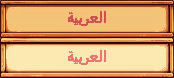
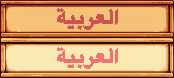
Improve complex-script language button legibility

Changed region(s): [[0.3161, 0.6154, 0.6897, 0.8974], [0.3161, 0.1026, 0.6897, 0.3846]]

diff --git a/Tests/StardewTranslationInstallerTests/InstallerCoreTests.swift b/Tests/StardewTranslationInstallerTests/InstallerCoreTests.swift
@@ -322,17 +322,17 @@ struct InstallerCoreTests {
[21 lines of base64/hex data omitted]
         ]
@@ -367,7 +367,7 @@ struct InstallerCoreTests {
         try expect(try pngDimensions(hindiButtonPath) == (174, 78))
         try expect(
             try DependencyInstaller.sha256(of: payload.appendingPathComponent(hindiButtonPath))
[2 lines of base64/hex data omitted]
         )
         let hindiTitlePath = "assets/title/TitleButtons-hindi.png"
         try expect(try pngDimensions(hindiTitlePath) == (400, 655))
@@ -445,7 +445,7 @@ struct InstallerCoreTests {
         try expect(
             try DependencyInstaller.sha256(
                 of: payload.appendingPathComponent("assets/button-persian.png")
[2 lines of base64/hex data omitted]
         )
         try expect(
             try DependencyInstaller.sha256(
@@ -458,7 +458,7 @@ struct InstallerCoreTests {
         try expect(
             try DependencyInstaller.sha256(
                 of: payload.appendingPathComponent("assets/button-arabic.png")
[2 lines of base64/hex data omitted]
         )
         try expect(
             try DependencyInstaller.sha256(
@@ -486,7 +486,7 @@ struct InstallerCoreTests {
         try expect(
             try DependencyInstaller.sha256(
                 of: payload.appendingPathComponent("assets/button-thai.png")
[2 lines of base64/hex data omitted]
         )
         try expect(
             try DependencyInstaller.sha256(

diff --git a/Scripts/render-shaped-text.swift b/Scripts/render-shaped-text.swift
@@ -30,15 +30,22 @@ func alphaBounds(of bitmap: NSBitmapImageRep) -> CGRect? {
 }
 
 do {
-    guard CommandLine.arguments.count == 5,
+    guard (CommandLine.arguments.count == 5 || CommandLine.arguments.count == 6),
           let size = Double(CommandLine.arguments[3]) else { throw RenderError.usage }
     let fontURL = URL(fileURLWithPath: CommandLine.arguments[1])
     let text = CommandLine.arguments[2]
     let outputURL = URL(fileURLWithPath: CommandLine.arguments[4])
     var registrationError: Unmanaged<CFError>?
     _ = CTFontManagerRegisterFontsForURL(fontURL as CFURL, .process, &registrationError)
-    guard let descriptors = CTFontManagerCreateFontDescriptorsFromURL(fontURL as CFURL) as? [CTFontDescriptor],
-          let descriptor = descriptors.last,
+    guard let descriptors = CTFontManagerCreateFontDescriptorsFromURL(fontURL as CFURL) as? [CTFontDescriptor]
+    else { throw RenderError.font }
+    let descriptorIndex = CommandLine.arguments.count == 6
+        ? Int(CommandLine.arguments[5])
+        : descriptors.indices.last
+    guard let descriptorIndex,
+          descriptors.indices.contains(descriptorIndex) else { throw RenderError.font }
+    let descriptor = descriptors[descriptorIndex]
+    guard
           let fontName = CTFontDescriptorCopyAttribute(descriptor, kCTFontNameAttribute) as? String,
           let font = NSFont(name: fontName, size: size) else { throw RenderError.font }
 
@@ -88,6 +95,6 @@ do {
     }
     try data.write(to: outputURL)
 } catch {
-    fputs("Usage: render-shaped-text <font-file> <text> <size> <output.png>\n", stderr)
+    fputs("Usage: render-shaped-text <font-file> <text> <size> <output.png> [font-index]\n", stderr)
     exit(1)
 }

diff --git a/Scripts/generate-language-buttons.py b/Scripts/generate-language-buttons.py
@@ -20,10 +20,12 @@ class LanguageButton:
     font_index: int = 0
     shaped: bool = False
     show_vn: bool = False
+    max_size: int = 16
+    max_width: int = 132
+    max_height: int = 17
 
 
 ARIAL_BOLD = "/System/Library/Fonts/Supplemental/Arial Bold.ttf"
-ARIAL_UNICODE = "/System/Library/Fonts/Supplemental/Arial Unicode.ttf"
 
 BUTTONS = (
     LanguageButton("button-russian.png", "РУССКИЙ", ARIAL_BOLD, show_vn=True),
@@ -32,8 +34,14 @@ BUTTONS = (
     LanguageButton("button-ukrainian.png", "УКРАЇНСЬКА", ARIAL_BOLD),
     LanguageButton("button-vietnamese.png", "TIẾNG VIỆT", ARIAL_BOLD),
     LanguageButton("button-swahili.png", "KISWAHILI", ARIAL_BOLD),
-    LanguageButton("button-persian.png", "فارسی", ARIAL_UNICODE, shaped=True),
-    LanguageButton("button-arabic.png", "العربية", ARIAL_UNICODE, shaped=True),
+    LanguageButton(
+        "button-persian.png", "فارسی", "/System/Library/Fonts/GeezaPro.ttc",
+        font_index=1, shaped=True, max_size=23, max_width=140, max_height=23,
+    ),
+    LanguageButton(
+        "button-arabic.png", "العربية", "/System/Library/Fonts/GeezaPro.ttc",
+        font_index=1, shaped=True, max_size=23, max_width=140, max_height=23,
+    ),
     LanguageButton("button-indonesian.png", "BAHASA INDONESIA", ARIAL_BOLD),
     LanguageButton("button-filipino.png", "FILIPINO", ARIAL_BOLD),
     LanguageButton("button-dutch.png", "NEDERLANDS", ARIAL_BOLD),
@@ -41,7 +49,11 @@ BUTTONS = (
         "button-hindi.png",
         "हिन्दी",
         "/System/Library/Fonts/Supplemental/Devanagari Sangam MN.ttc",
+        font_index=1,
         shaped=True,
+        max_size=23,
+        max_width=140,
+        max_height=23,
     ),
     LanguageButton(
         "button-traditional-chinese.png",
@@ -50,13 +62,21 @@ BUTTONS = (
         font_index=2,
     ),
     LanguageButton("button-romanian.png", "ROMÂNĂ", ARIAL_BOLD),
-    LanguageButton("button-hebrew.png", "עברית", ARIAL_UNICODE, shaped=True),
+    LanguageButton(
+        "button-hebrew.png", "עברית",
+        "/System/Library/Fonts/Supplemental/NewPeninimMT.ttc",
+        font_index=3, shaped=True, max_size=22, max_width=140, max_height=22,
+    ),
     LanguageButton("button-bulgarian.png", "БЪЛГАРСКИ", ARIAL_BOLD),
     LanguageButton(
         "button-thai.png",
         "ภาษาไทย",
         "/System/Library/Fonts/Supplemental/Thonburi.ttc",
+        font_index=1,
         shaped=True,
+        max_size=23,
+        max_width=140,
+        max_height=23,
     ),
     LanguageButton("button-greek.png", "ΕΛΛΗΝΙΚΑ", ARIAL_BOLD),
     LanguageButton("button-czech.png", "ČEŠTINA", ARIAL_BOLD),
@@ -65,8 +85,6 @@ BUTTONS = (
 FRAME_WIDTH = 174
 FRAME_HEIGHT = 39
 ATLAS_HEIGHT = FRAME_HEIGHT * 2
-MAX_LABEL_WIDTH = 132
-MAX_LABEL_HEIGHT = 17
 INK_COLORS = ((206, 82, 82, 255), (239, 115, 115, 255))
 
 
@@ -105,10 +123,12 @@ def render_with_pillow(text: str, font_path: Path, size: int, index: int) -> Ima
     return mask.point(lambda value: 255 if value >= 96 else 0)
 
 
-def render_shaped(text: str, font_path: Path, size: int, renderer: Path) -> Image.Image:
+def render_shaped(
+    text: str, font_path: Path, size: int, renderer: Path, index: int
+) -> Image.Image:
     with tempfile.NamedTemporaryFile(suffix=".png") as output:
         subprocess.run(
-            [str(renderer), str(font_path), text, str(size), output.name],
+            [str(renderer), str(font_path), text, str(size), output.name, str(index)],
             check=True,
         )
         return Image.open(output.name).convert("RGBA").getchannel("A").copy()
@@ -116,12 +136,12 @@ def render_shaped(text: str, font_path: Path, size: int, renderer: Path) -> Imag
 
 def render_text(spec: LanguageButton, text: str, size: int, renderer: Path) -> Image.Image:
     if spec.shaped:
-        return render_shaped(text, Path(spec.font), size, renderer)
+        return render_shaped(text, Path(spec.font), size, renderer, spec.font_index)
     return render_with_pillow(text, Path(spec.font), size, spec.font_index)
 
 
 def render_label(spec: LanguageButton, renderer: Path) -> Image.Image:
-    for size in range(16, 7, -1):
+    for size in range(spec.max_size, 7, -1):
         native = render_text(spec, spec.label, size, renderer)
         vn = (
             render_with_pillow("VN", Path(ARIAL_BOLD), max(8, size - 2), 0)
@@ -130,7 +150,7 @@ def render_label(spec: LanguageButton, renderer: Path) -> Image.Image:
         )
         width = native.width + (7 + vn.width if vn else 0)
         height = max(native.height, vn.height if vn else 0)
-        if width <= MAX_LABEL_WIDTH and height <= MAX_LABEL_HEIGHT:
+        if width <= spec.max_width and height <= spec.max_height:
             label = Image.new("L", (width, height), 0)
             label.paste(native, (0, (height - native.height) // 2), native)
             if vn:
@@ -162,7 +182,7 @@ def validate_button(button: Image.Image, spec: LanguageButton) -> None:
                 ink_count += len(xs)
         if ink_count < 10:
             raise ValueError(f"Missing label ink in {spec.filename}, frame {frame}")
-        if max(spans) >= MAX_LABEL_WIDTH:
+        if max(spans) >= spec.max_width:
             raise ValueError(f"Solid ink band in {spec.filename}, frame {frame}")
 
 
